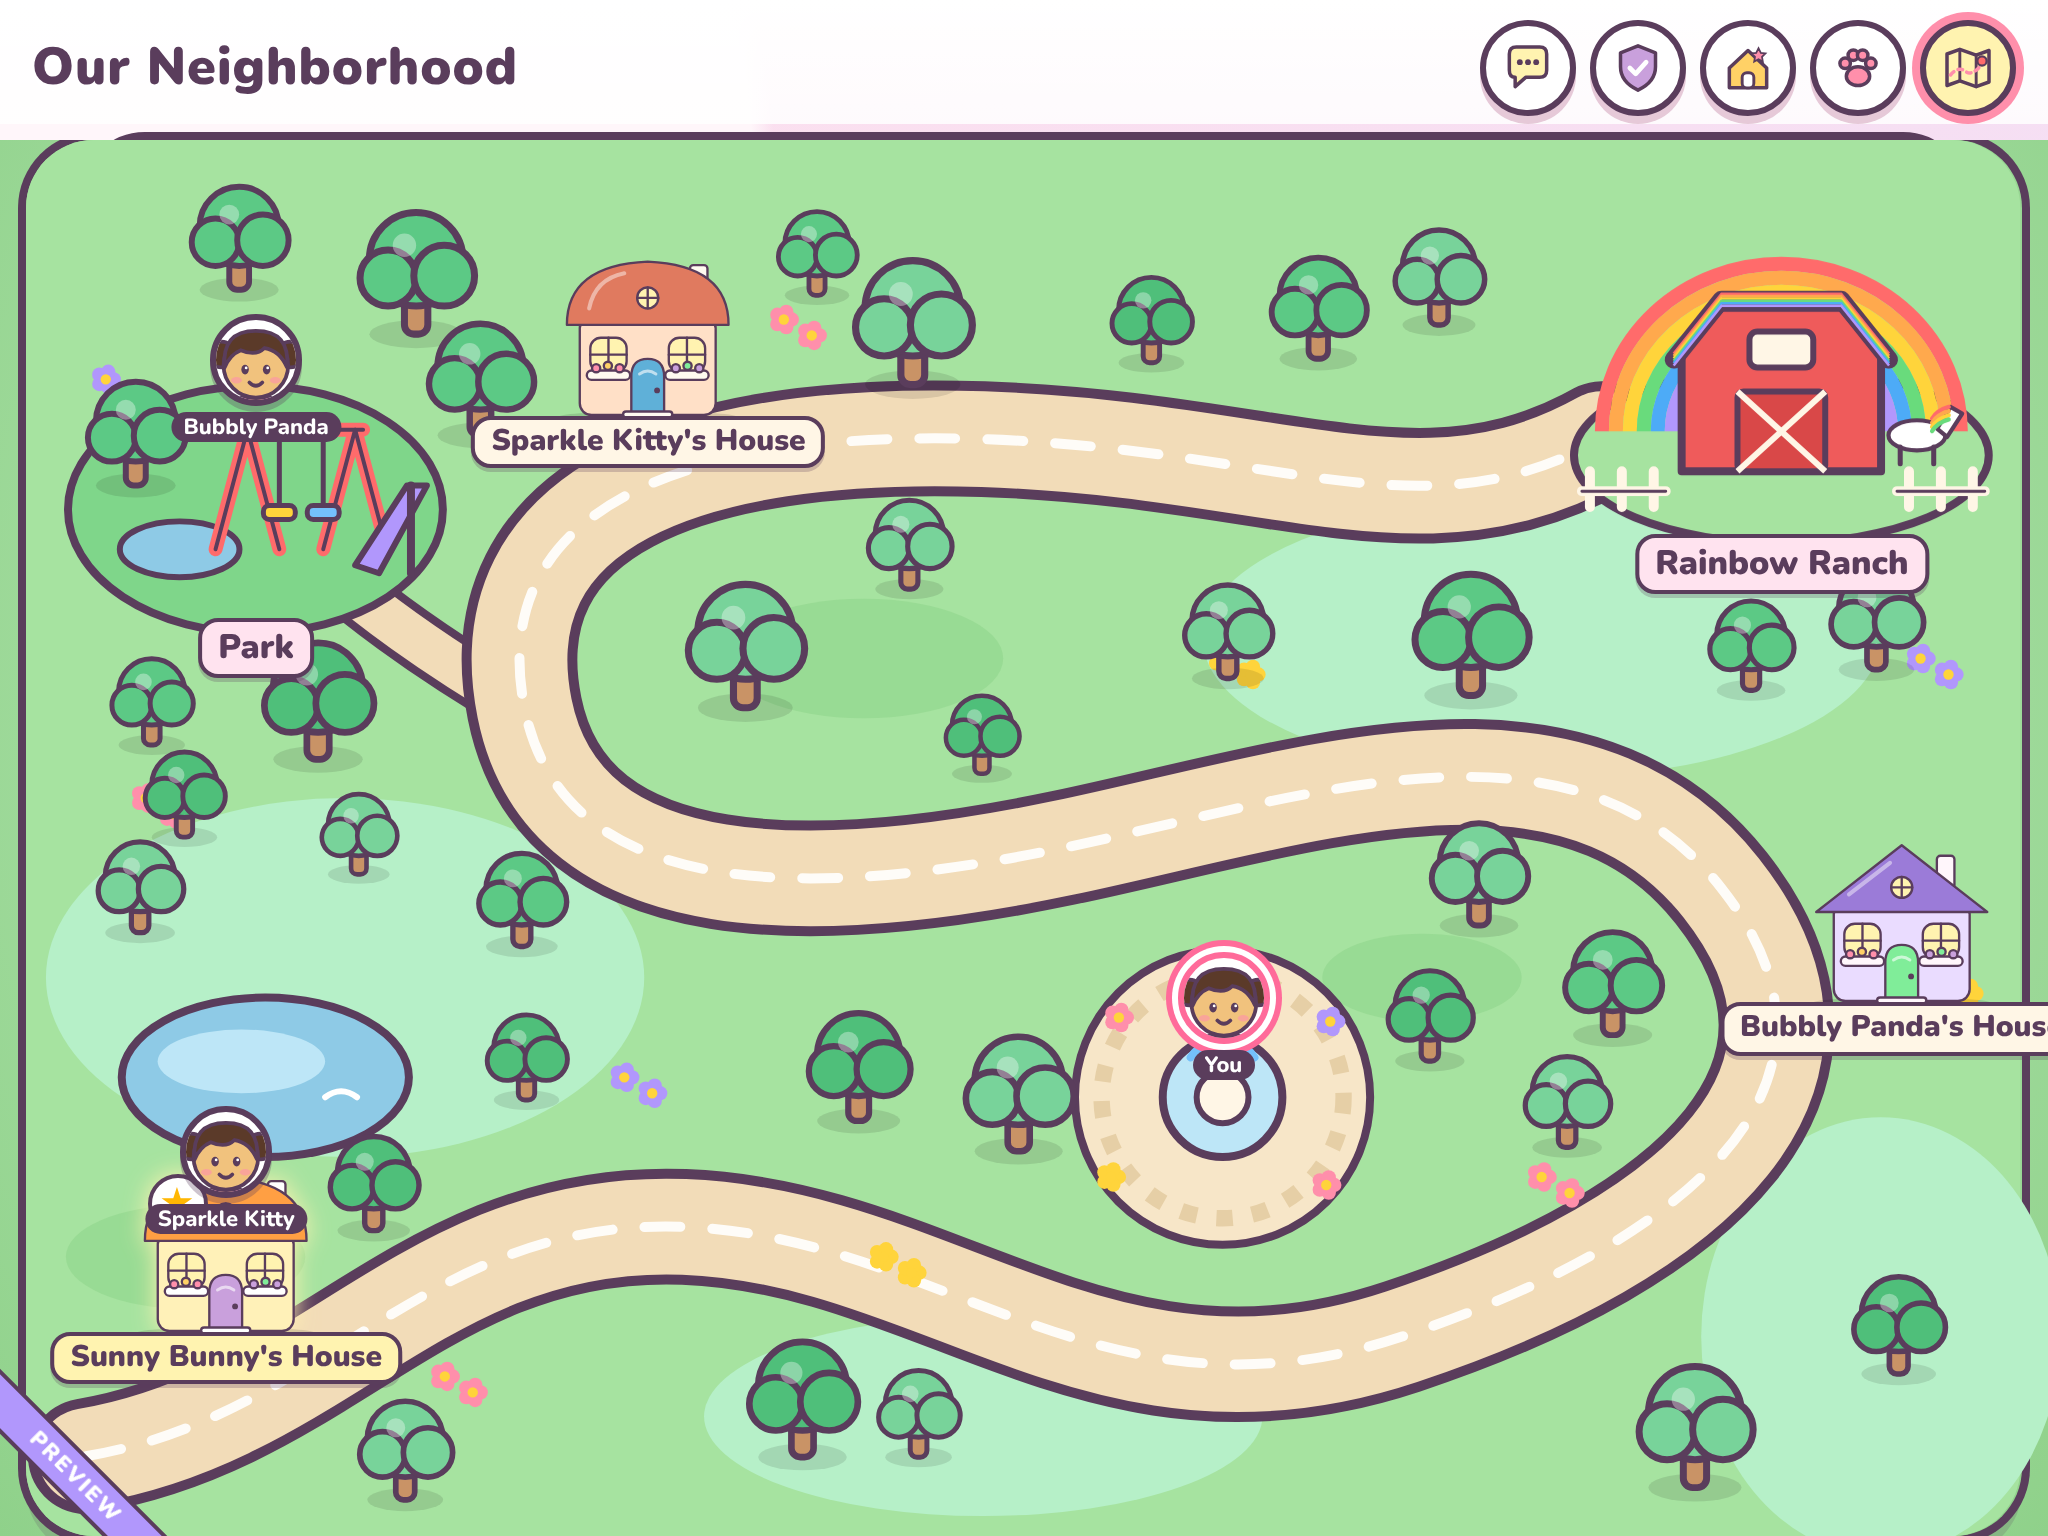
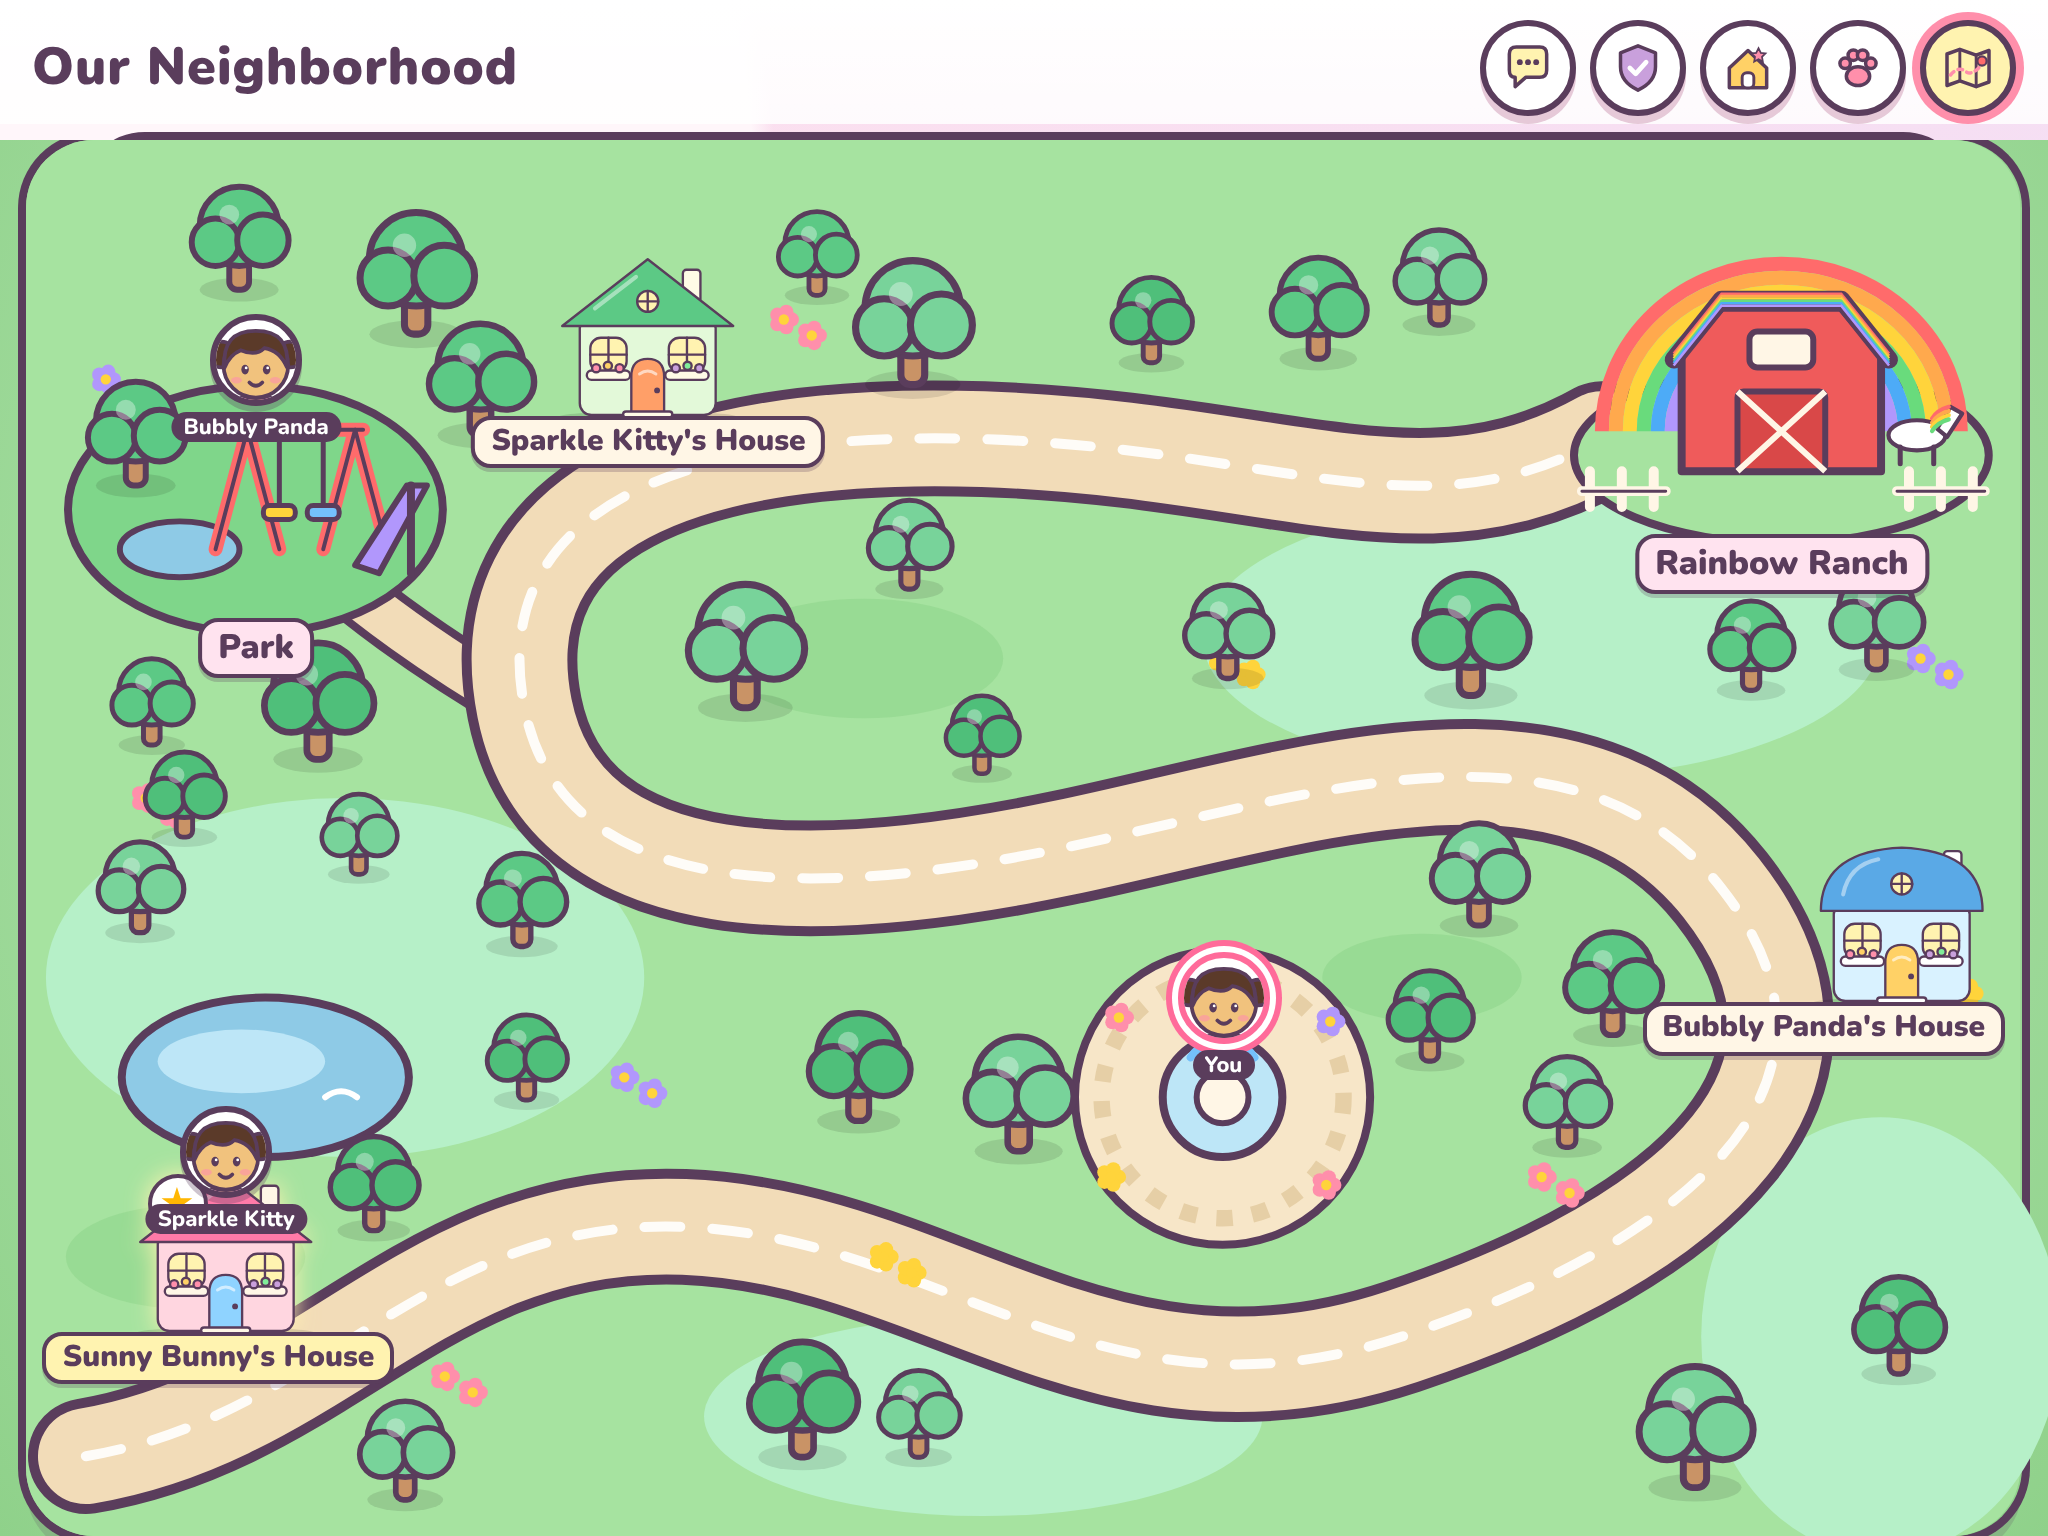
Map: keep house signs near the edges fully on screen (+test)

Changed region(s): [[0.0, 0.75, 0.2188, 1.0], [0.7812, 0.5312, 1.0, 0.6875], [0.2812, 0.1562, 0.375, 0.2812]]

diff --git a/src/main.ts b/src/main.ts
@@ -911,7 +911,7 @@ function renderMap(force = false) {
     const go = h ? `house:${h.id}` : 'home', name = h ? h.name : 'My House';
     mapAnchors.set(h ? 'house:' + h.id : 'home', { x: c.x, y: c.y - hh / 2 - 4 });
     html += `<button class="mapSpot mapHouse ${h?.mine || !h ? 'mine' : ''}" data-go="${go}" aria-label="${esc(name)}" style="left:${px(c.x - hw / 2)};top:${px(c.y - hh / 2)};width:${px(hw)};height:${px(hh)}">${houseSVG(h ? h.style : 0, { lit: h ? h.lit : true })}${h?.locked ? '<span class="lockBadge">🔒</span>' : ''}${h?.mine || !h ? '<span class="homeBadge">★</span>' : ''}</button>
-      <div class="mapSign ${h?.mine || !h ? 'mine' : ''}" style="left:${px(c.x)};top:${px(c.y + hh / 2 - 2)}">${esc(name)}</div>`;
+      <div class="mapSign ${h?.mine || !h ? 'mine' : ''} ${c.x > MAP_W - 130 ? 'edgeR' : c.x < 130 ? 'edgeL' : ''}" style="left:${px(c.x > MAP_W - 130 ? MAP_W - 8 : c.x < 130 ? 8 : c.x)};top:${px(c.y + hh / 2 - 2)}">${esc(name)}</div>`;
   });
   html += `<button class="mapSpot mapPark" data-go="park" aria-label="The park" style="left:${px(PARK.x - 100)};top:${px(PARK.y - 85)};width:${px(200)};height:${px(170)}">${parkMiniSVG}</button><div class="mapSign place" style="left:${px(PARK.x)};top:${px(PARK.y + 70)}">Park</div>`;
   html += `<button class="mapSpot mapRanch" data-go="ranch" aria-label="Rainbow Ranch" style="left:${px(RANCH.x - 110)};top:${px(RANCH.y - 90)};width:${px(220)};height:${px(180)}">${ranchMiniSVG}</button><div class="mapSign place" style="left:${px(RANCH.x)};top:${px(RANCH.y + 78)}">Rainbow Ranch</div>`;

diff --git a/src/style.css b/src/style.css
@@ -542,6 +542,8 @@ body.view-ranch #btnHood, body.view-park #btnHood { display: none !important; }
 @keyframes spotBob { 0%, 100% { transform: translateY(0); } 50% { transform: translateY(-4px); } }
 .mapSign { position: absolute; z-index: 6; transform: translateX(-50%); background: #fff6e6; border: 2.5px solid var(--ink); border-radius: 10px; padding: 0 8px; font-weight: 900; font-size: calc(15px * var(--sc)); line-height: 1.5; white-space: nowrap; box-shadow: 0 2px 0 rgba(90,61,92,.25); pointer-events: none; max-width: calc(190px * var(--sc)); overflow: hidden; text-overflow: ellipsis; }
 .mapSign.mine { background: #fff3b0; }
+.mapSign.edgeR { transform: translateX(-100%); }
+.mapSign.edgeL { transform: none; }
 .mapSign.place { font-size: calc(17px * var(--sc)); background: #ffe3ef; max-width: none; }
 .mapFaces { position: absolute; inset: 0; z-index: 20; pointer-events: none; }
 .mapFace { position: absolute; pointer-events: auto; padding: 0; border: 0; background: none; box-shadow: none; transition: left .6s cubic-bezier(.3,1.3,.5,1), top .6s cubic-bezier(.3,1.3,.5,1); animation: facePop .35s cubic-bezier(.3,1.5,.5,1); }

diff --git a/map_test.py b/map_test.py
@@ -30,7 +30,6 @@ async def main():
             c = await b.new_context(viewport={'width': 1024, 'height': 768}, device_scale_factor=2, has_touch=True)
             await c.add_init_script(SKIP_WN); return c
         P, K2, K3 = [await (await mk()).new_page() for _ in range(3)]
-        P.on("response", lambda r: print("NET", r.status, r.url) if "/api/" in r.url else None); P.on("console", lambda m: print("CON", m.text) if m.type=="error" else None)
         errs = {}
         for name, pg in (('P', P), ('K2', K2), ('K3', K3)):
             errs[name] = []; pg.on('pageerror', lambda e, n=name: errs[n].append(str(e)))
@@ -68,6 +67,8 @@ async def main():
         names = await P.evaluate("[...__hood().houses.values()].map(h => h.meta.name)")
         signs = await P.locator('.mapSign:not(.place)').all_inner_texts()
         check('street map: every kid\'s house with her name sign', await P.locator('.mapHouse').count() == 3 and all(any(n[:12] in s for s in signs) for n in names), json.dumps(signs))
+        offs = await P.evaluate("(() => { const W = innerWidth; return [...document.querySelectorAll('.mapSign')].filter(e => { const r = e.getBoundingClientRect(); return r.left < 0 || r.right > W || e.scrollWidth > e.clientWidth + 1; }).map(e => e.textContent); })()")
+        check('every map sign is fully on screen (not cut off)', offs == [], json.dumps(offs))
         check('everyone shows as a face on every map', [await pg.locator('.mapFace').count() for pg in (P, K2, K3)] == [3, 3, 3])
         k2pid, k3pid, ppid = [await pg.evaluate('__hood().pid') for pg in (K2, K3, P)]
         p_house = await P.evaluate('__hood().myHouseId()')
